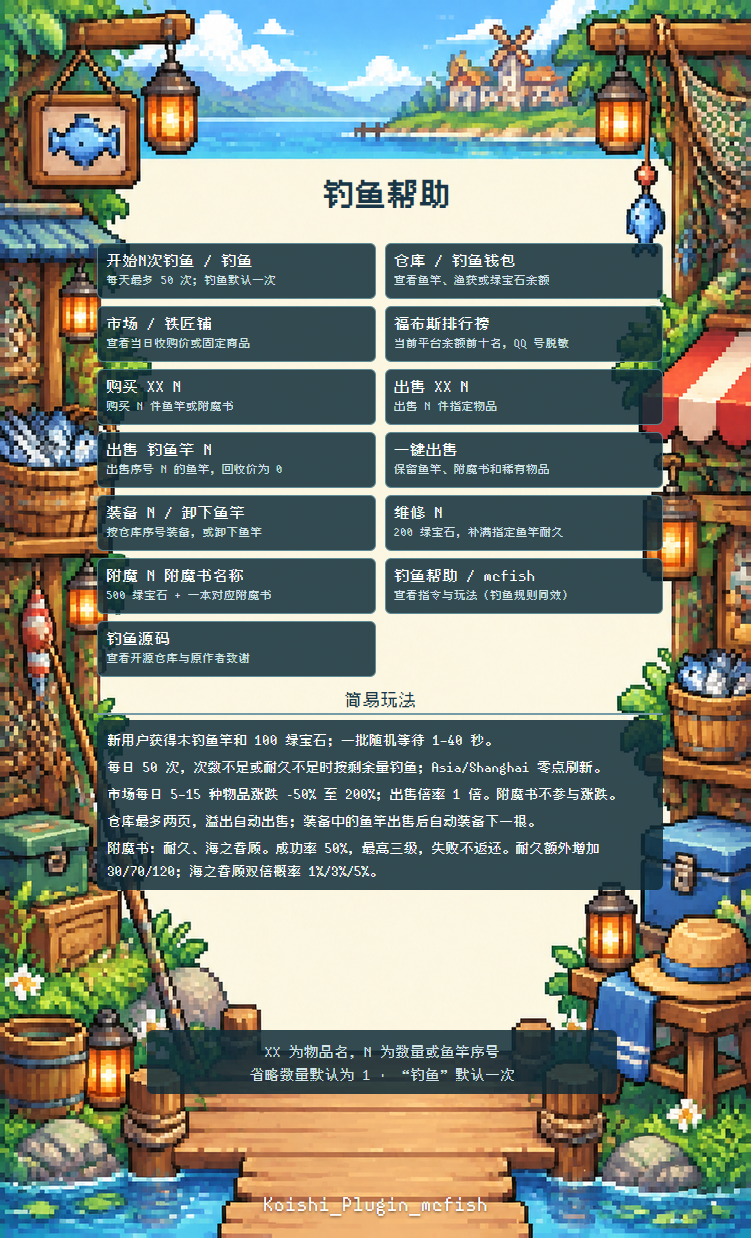
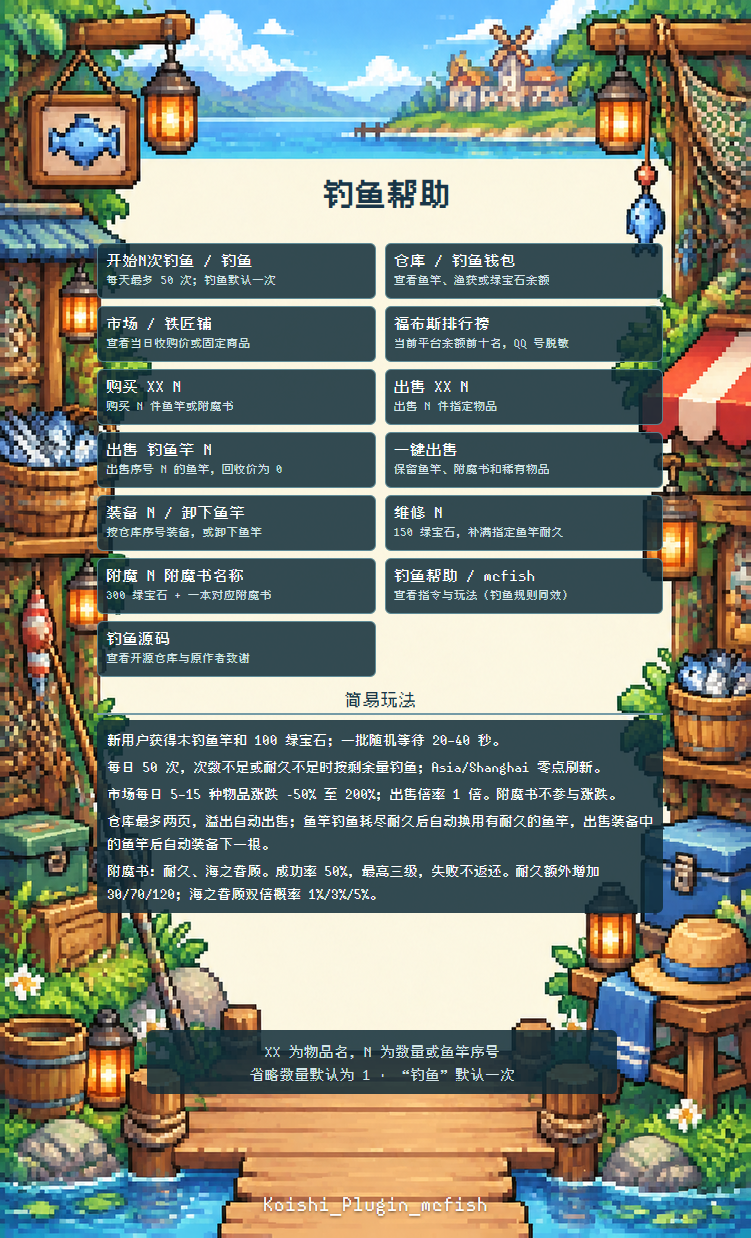
feat: configure enchant probability and fishing wait range

Changed region(s): [[0.1225, 0.6446, 0.8881, 0.7367], [0.5819, 0.5832, 0.6431, 0.6139]]

diff --git a/src/config.ts b/src/config.ts
@@ -4,9 +4,9 @@ import { DEFAULT_LOOT, isEnchantBook, LootItem, RODS } from './catalog'
 export type RecallTarget = 'result' | 'equipment' | 'damage' | 'waiting' | 'trade' | 'notice'
 export interface Config {
   lootTable: LootItem[]; normalColor: string; rareColor: string
-  dailyLimit: number; maxWaitSeconds: number; timezone: string
+  dailyLimit: number; minWaitSeconds: number; maxWaitSeconds: number; timezone: string
   marketMinIncrease: number; marketMaxIncrease: number; marketMinItems: number; marketMaxItems: number
-  consumeEnchantBook: boolean; enchantCost: number; repairCost: number; saleMultiplier: number
+  consumeEnchantBook: boolean; enchantSuccessRate: number; enchantCost: number; repairCost: number; saleMultiplier: number
   recallTargets: RecallTarget[]; recallDelaySeconds: number; images: boolean
 }
 export const Config: Schema<Config> = Schema.intersect([
@@ -22,7 +22,8 @@ export const Config: Schema<Config> = Schema.intersect([
   }).description('物品与颜色'),
   Schema.object({
     dailyLimit: Schema.number().min(1).max(10000).step(1).default(50).description('用户每日钓鱼次数上限'),
-    maxWaitSeconds: Schema.number().min(0).max(3600).step(1).default(40).description('最长钓鱼等待时间（秒）；一批随机等待 1 至该值，0 表示立即结算。'),
+    minWaitSeconds: Schema.number().min(0).max(3600).step(1).default(20).description('最短钓鱼等待时间（s），不得大于最长等待时间。'),
+    maxWaitSeconds: Schema.number().min(0).max(3600).step(1).default(40).description('最长钓鱼等待时间（s）；一批在最短与最长时间之间随机等待，提示显示此最大值。两者均为 0 时立即结算。'),
     timezone: Schema.string().default('Asia/Shanghai').description('每日次数与行情的零点刷新时区'),
   }).description('钓鱼规则'),
   Schema.object({
@@ -34,8 +35,9 @@ export const Config: Schema<Config> = Schema.intersect([
   }).description('市场'),
   Schema.object({
     consumeEnchantBook: Schema.boolean().default(true).description('附魔时消耗一本对应附魔书'),
-    enchantCost: Schema.number().min(0).max(1000000000).step(1).default(500).description('每次附魔消耗绿宝石'),
-    repairCost: Schema.number().min(0).max(1000000000).step(1).default(200).description('修满一次鱼竿耐久消耗绿宝石'),
+    enchantSuccessRate: Schema.number().role('slider').min(0).max(100).step(1).default(50).description('附魔成功概率（%）；100 为必定成功，0 为必定失败。'),
+    enchantCost: Schema.number().min(0).max(1000000000).step(1).default(300).description('每次附魔消耗绿宝石'),
+    repairCost: Schema.number().min(0).max(1000000000).step(1).default(150).description('修满一次鱼竿耐久消耗绿宝石'),
   }).description('附魔与维修'),
   Schema.object({
     recallTargets: Schema.array(Schema.union([
@@ -51,6 +53,9 @@ export const Config: Schema<Config> = Schema.intersect([
   }).description('消息与界面'),
 ])
 export function validateConfig(config: Config) {
+  if (![config.minWaitSeconds, config.maxWaitSeconds].every(value => Number.isSafeInteger(value) && value >= 0 && value <= 3600)) throw new Error('mcfish：钓鱼等待时间必须为 0 至 3600 秒的整数。')
+  if (config.minWaitSeconds > config.maxWaitSeconds) throw new Error('mcfish：最短钓鱼等待时间不得大于最长等待时间。')
+  if (!Number.isSafeInteger(config.enchantSuccessRate) || config.enchantSuccessRate < 0 || config.enchantSuccessRate > 100) throw new Error('mcfish：附魔成功概率必须为 0 至 100 的整数。')
   if (!Number.isSafeInteger(config.repairCost) || config.repairCost < 0) throw new Error('mcfish：维修费用必须为非负整数。')
   if (!Number.isFinite(config.saleMultiplier) || config.saleMultiplier < 0 || config.saleMultiplier > 10) throw new Error('mcfish：基础出售倍率必须在 0 至 10 之间。')
   if (config.marketMinIncrease < -50 || config.marketMaxIncrease < -50) throw new Error('mcfish：行情跌幅不能超过 50%。')

diff --git a/src/core/fishing.ts b/src/core/fishing.ts
@@ -3,7 +3,7 @@ import { randomUUID } from 'node:crypto'
 import { DOUBLE_PERCENT, LootItem } from '../catalog'
 import type { Config } from '../config'
 import { addItem } from './inventory'
-import { Dice, dice, ensureIdle, equippedRod, GameError, PendingFishing, Player, positive, safeAdd } from './model'
+import { Dice, dice, ensureIdle, equippedRod, GameError, maxDurability, PendingFishing, Player, positive, safeAdd } from './model'
 function draw(table: LootItem[], rng: Dice): LootItem {
   let value = rng(table.reduce((sum, item) => sum + item.weight, 0))
   for (const item of table) { if (value < item.weight) return item; value -= item.weight }
@@ -29,18 +29,30 @@ export function startFishing(player: Player, amount: unknown, config: Config, no
     if (double) doubled++
     drops[item.name] = safeAdd(drops[item.name] || 0, double ? 2 : 1)
   }
-  const seconds = config.maxWaitSeconds > 0 ? rng(config.maxWaitSeconds) + 1 : 0
+  const seconds = config.minWaitSeconds === config.maxWaitSeconds ? config.minWaitSeconds
+    : config.minWaitSeconds + rng(config.maxWaitSeconds - config.minWaitSeconds + 1)
   rod.durability -= casts
   player.casts += casts
-  if (rod.durability === 0) notes.push('鱼竿耐久已耗尽，需维修后继续使用。')
   const pending: PendingFishing = { token: randomUUID(), day: player.day, casts, finishAt: now + seconds * 1000, rodId: rod.id, drops, doubled, notes }
   player.pending = pending
   return pending
 }
-export function finishFishing(player: Player, now = Date.now()): PendingFishing | null {
+export function finishFishing(player: Player, now = Date.now(), config?: Config): PendingFishing | null {
   const pending = player.pending
   if (!pending || pending.finishAt > now) return null
   for (const [name, count] of Object.entries(pending.drops)) addItem(player, name, count)
+  // Older pending batches may already contain the premature exhaustion notice.
+  pending.notes = pending.notes.filter(note => note !== '鱼竿耐久已耗尽，需维修后继续使用。')
+  const index = player.rods.findIndex(rod => rod.id === pending.rodId)
+  if (index >= 0 && player.rods[index].durability === 0) {
+    const next = [...player.rods.slice(index + 1), ...player.rods.slice(0, index)].find(rod => rod.durability > 0)
+    if (next) {
+      player.equippedId = next.id
+      pending.notes.push(`当前鱼竿耐久耗尽，已自动切换到【${next.name}】【${next.durability}/${maxDurability(next)}】`)
+    } else {
+      pending.notes.push(`鱼竿耐久已耗尽，需维修后继续使用【维修将消耗${config?.repairCost ?? 150}个绿宝石】`)
+    }
+  }
   player.pending = null
   return pending
 }

diff --git a/src/index.ts b/src/index.ts
@@ -53,7 +53,7 @@ export function apply(ctx: Context, config: Config) {
       if (options && Object.keys(options).length) throw new GameError('数量或序号必须是正整数。')
       // Recover persisted fishing after reload/restart exactly once before processing commands.
       const recovered = await repository.run(id, (p, m) => {
-        const result = finishFishing(p)
+        const result = finishFishing(p, Date.now(), config)
         return { result, overflow: trimOverflow(p, m, config), pending: p.pending }
       }, session.username && session.username !== session.userId ? session.username : undefined)
       if (recovered.result) await flow.send(`上次钓鱼已完成。\n${fishingText(recovered.result)}`, 'result')
@@ -114,11 +114,11 @@ export function apply(ctx: Context, config: Config) {
     .action(({ session, options }, amount) => guard(session, async (id, flow) => {
       const pending = await repository.run(id, p => startFishing(p, amount, config))
       for (const note of pending.notes.filter(note => note.includes('耐久'))) await flow.send(note, 'damage')
-      await flow.send(`已开始 ${pending.casts} 次钓鱼，预计最长等待 ${config.maxWaitSeconds} 秒。`, 'waiting')
+      await flow.send(`已开始 ${pending.casts} 次钓鱼。\n本次钓鱼预计等待${config.maxWaitSeconds}秒，请耐心等待...`, 'waiting')
       await wait(pending.finishAt - Date.now())
       if (disposed) return
       const result = await repository.run(id, (p, m) => {
-        const completed = finishFishing(p)
+        const completed = finishFishing(p, Date.now(), config)
         if (!completed) throw new GameError('本次钓鱼尚未完成，请稍后查看仓库。', 'waiting')
         return { completed, overflow: trimOverflow(p, m, config) }
       })

diff --git a/src/core/help.ts b/src/core/help.ts
@@ -20,13 +20,13 @@ export function helpCommands(config: Config): HelpCommand[] {
   ]
 }
 export function gameplayNotes(config: Config): string[] {
-  const wait = config.maxWaitSeconds === 0 ? '立即结算' : `一批随机等待 1–${config.maxWaitSeconds} 秒`
+  const wait = config.maxWaitSeconds === 0 ? '立即结算' : `一批随机等待 ${config.minWaitSeconds}–${config.maxWaitSeconds} 秒`
   return [
     `新用户获得木钓鱼竿和 100 绿宝石；${wait}。`,
     `每日 ${config.dailyLimit} 次，次数不足或耐久不足时按剩余量钓鱼；${config.timezone} 零点刷新。`,
     `市场每日 ${config.marketMinItems}–${config.marketMaxItems} 种物品涨跌 ${config.marketMinIncrease}% 至 ${config.marketMaxIncrease}%；出售倍率 ${config.saleMultiplier} 倍。附魔书不参与涨跌。`,
-    '仓库最多两页，溢出自动出售；装备中的鱼竿出售后自动装备下一根。',
-    '附魔书：耐久、海之眷顾。成功率 50%，最高三级，失败不返还。耐久额外增加 30/70/120；海之眷顾双倍概率 1%/3%/5%。',
+    '仓库最多两页，溢出自动出售；鱼竿钓鱼耗尽耐久后自动换用有耐久的鱼竿，出售装备中的鱼竿后自动装备下一根。',
+    `附魔书：耐久、海之眷顾。成功率 ${config.enchantSuccessRate}%，最高三级，失败不返还。耐久额外增加 30/70/120；海之眷顾双倍概率 1%/3%/5%。`,
   ]
 }
 export function rules(config: Config): string {

diff --git a/src/core/equipment.ts b/src/core/equipment.ts
@@ -19,7 +19,7 @@ export function repair(player: Player, index: unknown, config?: Config): string 
   const rod = rodAt(player, index)
   const max = maxDurability(rod)
   if (rod.durability >= max) throw new GameError('该鱼竿耐久已满，无需维修。', 'trade')
-  const cost = config?.repairCost ?? 200
+  const cost = config?.repairCost ?? 150
   if (player.wallet < cost) throw new GameError(`维修需要 ${cost} 绿宝石，当前余额不足。`, 'trade')
   player.wallet -= cost
   rod.durability = max
@@ -36,7 +36,7 @@ export function enchant(player: Player, index: unknown, name: string, config: Co
   if (player.wallet < config.enchantCost) throw new GameError(`附魔需要 ${config.enchantCost} 绿宝石，当前余额不足。`, 'trade')
   if (config.consumeEnchantBook) removeItem(player, book, 1)
   player.wallet -= config.enchantCost
-  if (rng(100) >= 50) return `附魔失败，已消耗 ${config.enchantCost} 绿宝石${config.consumeEnchantBook ? '及一本' + book : ''}。`
+  if (rng(100) >= config.enchantSuccessRate) return `附魔失败，已消耗 ${config.enchantCost} 绿宝石${config.consumeEnchantBook ? '及一本' + book : ''}。`
   const oldMax = maxDurability(rod)
   rod[field]++
   if (field === 'unbreaking') rod.durability += maxDurability(rod) - oldMax

diff --git a/README.md b/README.md
@@ -66,15 +66,15 @@ npm install koishi-plugin-mcfish
 | `福布斯排行榜` | 当前平台绿宝石余额前 10 名，QQ 号脱敏，长名字以 `...` 省略 |
 | `装备 N` / `卸下鱼竿` | 更换或卸下当前鱼竿 |
 | `附魔 N 附魔书名称` | 为指定鱼竿附魔，例如 `附魔 1 耐久附魔书` |
-| `维修 N` | 按配置费用修满指定鱼竿耐久，默认 200 绿宝石 |
+| `维修 N` | 按配置费用修满指定鱼竿耐久，默认 150 绿宝石 |
 | `钓鱼帮助` / `钓鱼源码` | 查看图片帮助菜单或开源地址；帮助中的价格与配置同步 |
 
 ## 玩法说明
 
 | 项目 | 默认规则 |
 | :--- | :--- |
-| 每日钓鱼 | 每人每天 **50 次**，一批随机等待 **1–40 秒** |
-| 次数与耐久 | 按剩余次数与鱼竿耐久计算；耐久耗尽后保留鱼竿，可维修 |
+| 每日钓鱼 | 每人每天 **50 次**，一批随机等待 **20–40 秒**，上下限可配置 |
+| 次数与耐久 | 按剩余次数与鱼竿耐久计算；钓完耐久耗尽时自动换用有耐久的鱼竿，没有可用鱼竿时提示维修 |
 | 仓库容量 | 每页 **15 行**，最多 **2 页**；鱼竿一行一个，物品一行两个，超出的物品与鱼竿自动出售 |
 | 基础收购价 | 表格价格 × 出售倍率，默认 **1 倍**，最终价格四舍五入；鱼竿回收价为 **0** |
 | 每日市场 | 每天 **5–15 种**物品行情变化，默认范围 **-50% 至 +200%**；跌幅绿色，涨幅红色 |
@@ -87,7 +87,7 @@ npm install koishi-plugin-mcfish
 
 ### 附魔
 
-每次成功率 **50%**，默认消耗 **500 绿宝石和一本对应附魔书**。成功提升一级，失败不返还，最高三级。两种附魔可以同时存在。
+默认成功率 **50%**，可调至 **100% 必定成功**；每次默认消耗 **300 绿宝石和一本对应附魔书**。成功提升一级，失败不返还，最高三级。两种附魔可以同时存在。
 
 | 附魔书 | 一级 | 二级 | 三级 |
 | :--- | :---: | :---: | :---: |
@@ -100,13 +100,17 @@ npm install koishi-plugin-mcfish
 
 在 Koishi 控制台直接编辑四列奖池表格：**物品名称、物品价格、抽取权重、是否稀有**。小数物价先四舍五入为整数后使用，行情计算后的单件价格也四舍五入。普通物品名称默认白色，稀有物品默认金色，可通过调色盘修改。
 
-每日次数、等待时间、出售倍率、市场涨跌范围、维修与附魔费用均可配置。文字消息撤回默认关闭；勾选后，在整个流程结束 **5 秒后** 撤回对应消息，需要适配器支持。
+每日次数、等待时间上下限、出售倍率、市场涨跌范围、附魔成功概率与费用、维修费用均可配置。文字消息撤回默认关闭；勾选后，在整个流程结束 **5 秒后** 撤回对应消息，需要适配器支持。
 
 **从旧版更新到 2.2：** 奖池价格现在直接表示 1 倍下的收购价。默认奖池请恢复默认值；自定义奖池请将旧价格减半，再使用 1 倍出售倍率，以维持原收购价。若保存过旧的最低涨幅，需手动改为 `-50`。
 
 新增图标放入插件安装目录的 `assets/items/物品名称.png`，文件名与奖池物品名完全一致。Docker 常见路径为 `/koishi/node_modules/koishi-plugin-mcfish/assets/items/`。建议从 MC 百科下载透明物品图标，或用 AI 绘制；推荐 64×64 / 128×128 的透明 PNG，大小不超过 200 KB。替换后重启 Koishi，更新插件前保留自定义图标副本。
 
 完整默认物价与稀有度见 [经济设定](docs/economy.md)。
+
+## 更新日志
+
+- **2.3.0**：新增附魔概率和等待时间范围配置，调整默认费用，优化耐久提示与自动换竿。
 
 ## 致谢与许可
 

diff --git a/docs/economy.md b/docs/economy.md
@@ -55,7 +55,7 @@
 | 钻石钓鱼竿 | 1500 | 100 | 0 |
 | 下界合金钓鱼竿 | 3100 | 150 | 0 |
 
-维修一次默认 200 绿宝石，补满耐久，费用可配置；附魔一次默认消耗 500 绿宝石和一本附魔书，成功率 50%。帮助菜单中的费用随配置同步更新。新用户的免费木竿和 100 绿宝石仅发放一次。
+维修一次默认 150 绿宝石，补满耐久；附魔一次默认消耗 300 绿宝石和一本附魔书，成功率默认 50%。费用与成功率均可配置，100% 为必定成功，帮助菜单随配置同步更新。新用户的免费木竿和 100 绿宝石仅发放一次。
 
 ## 旧配置升级
 
